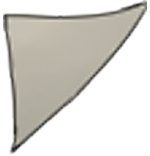
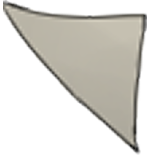
cg: add pageFlip corner img

diff --git a/public/classes/Day0QuizLog.js b/public/classes/Day0QuizLog.js
@@ -45,8 +45,8 @@ class Day0QuizLog {
     this._maxLinesPerBox = 0;
 
     // Nav buttons (screen coords)
-    this.leftBtn = { x: 105, y: 527, w: 50, h: 50 };
-    this.rightBtn = { x: 870, y: 527, w: 50, h: 50 };
+    this.leftBtn = { x: 106 + 1, y: 514 - 4, w: 48, h: 52 };
+    this.rightBtn = { x: 870 - 1, y: 514 - 4, w: 48, h: 52 };
 
     // Eva
     this.eva = null;
@@ -72,6 +72,9 @@ class Day0QuizLog {
 
   preload() {
     this.userFont = loadFont("assets/fonts/BradleyHandITCTT-Bold.ttf");
+
+    this.imgPageFlipLeft = loadImage("assets/ui/ui_pageFlip_left.png");
+    this.imgPageFlipRight = loadImage("assets/ui/ui_pageFlip_right.png");
   }
 
   setup() {
@@ -420,18 +423,39 @@ class Day0QuizLog {
 
   _drawNavButton(btn, label1Based, alpha) {
     push();
-    noStroke();
-    fill(255, 255, 255, 230 * (alpha / 255));
-    rect(btn.x, btn.y, btn.w, btn.h, 8);
-    stroke(0, 0, 0, alpha);
-    strokeWeight(2);
-    noFill();
-    rect(btn.x, btn.y, btn.w, btn.h, 8);
+
+    // Use images instead of rectangles
+    let img = null;
+    if (btn === this.leftBtn) img = this.imgPageFlipLeft;
+    else if (btn === this.rightBtn) img = this.imgPageFlipRight;
+
+    let imgN = 5;
+    if (btn === this.leftBtn) imgN = imgN;
+    else if (btn === this.rightBtn) imgN = -imgN;
+
+    if (img) {
+      // Draw the image with alpha
+      tint(255, alpha);
+      image(img, btn.x, btn.y, btn.w, btn.h);
+      noTint();
+    } else {
+      // Fallback to rectangle if image is missing
+      noStroke();
+      fill(255, 255, 255, 230 * (alpha / 255));
+      rect(btn.x, btn.y, btn.w, btn.h, 8);
+      stroke(0, 0, 0, alpha);
+      strokeWeight(2);
+      noFill();
+      rect(btn.x, btn.y, btn.w, btn.h, 8);
+    }
+
+    // Draw label text on top (optional)
     noStroke();
     fill(0, 0, 0, alpha);
     textAlign(CENTER, CENTER);
     textSize(16);
-    text(label1Based, btn.x + btn.w / 2, btn.y + btn.h / 2 + 1);
+    text(label1Based, btn.x + imgN + btn.w / 2, btn.y + btn.h / 2 - 10);
+
     pop();
   }
 
